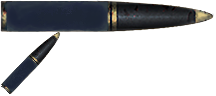
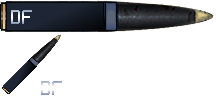
updated sprite for depleted fuel shell

Changed region(s): [[0.0, 0.0, 0.5556, 1.0], [0.1667, 0.9375, 0.25, 1.0], [0.1667, 0.8438, 0.3056, 0.9062]]

diff --git a/README.md b/README.md
@@ -1,7 +1,7 @@
 # BVTA-Extension
 An extension to BVTA which adds some new ammunition items made by community modders
 
-Last tested game version: 0.19.9.0
+Last tested game version: 0.19.13.0
 
 Railgun
   - Depleted Fuel Railgun Shell from Ammo Mod by Laryssa
